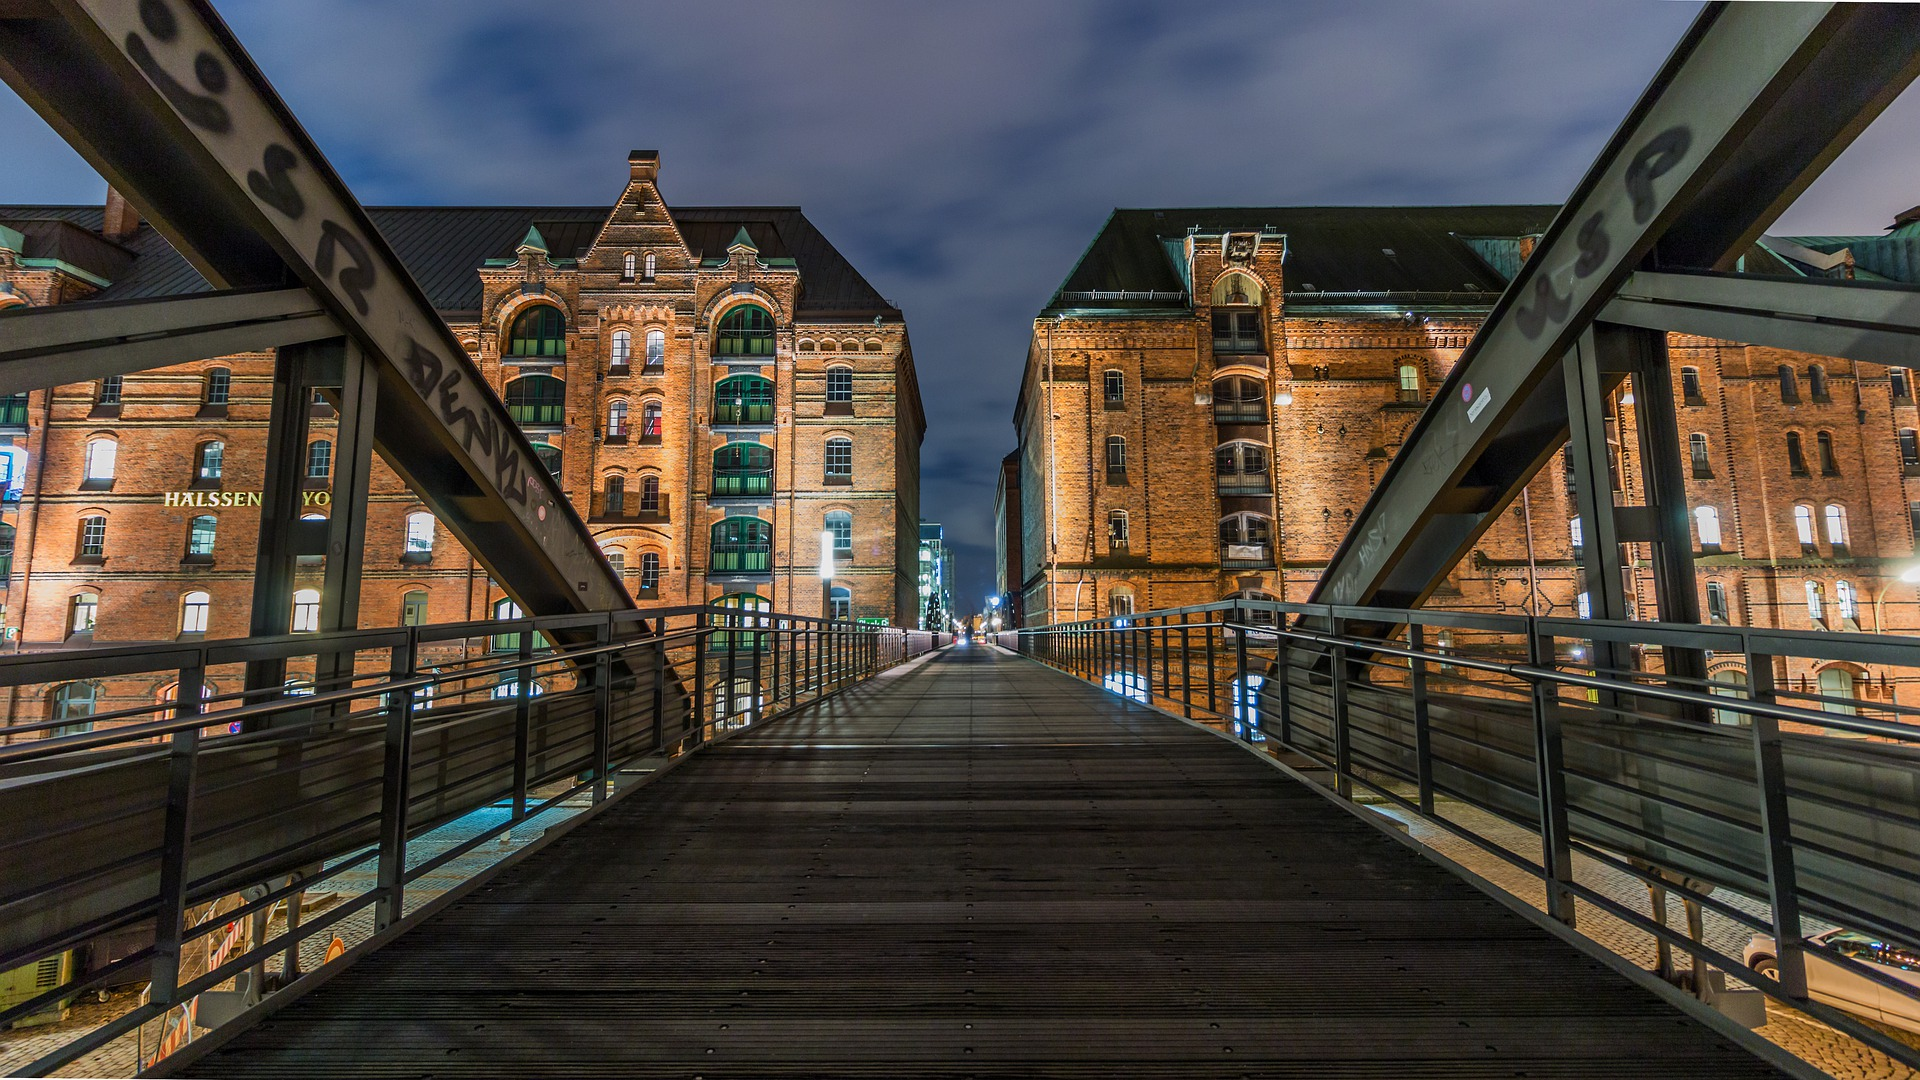
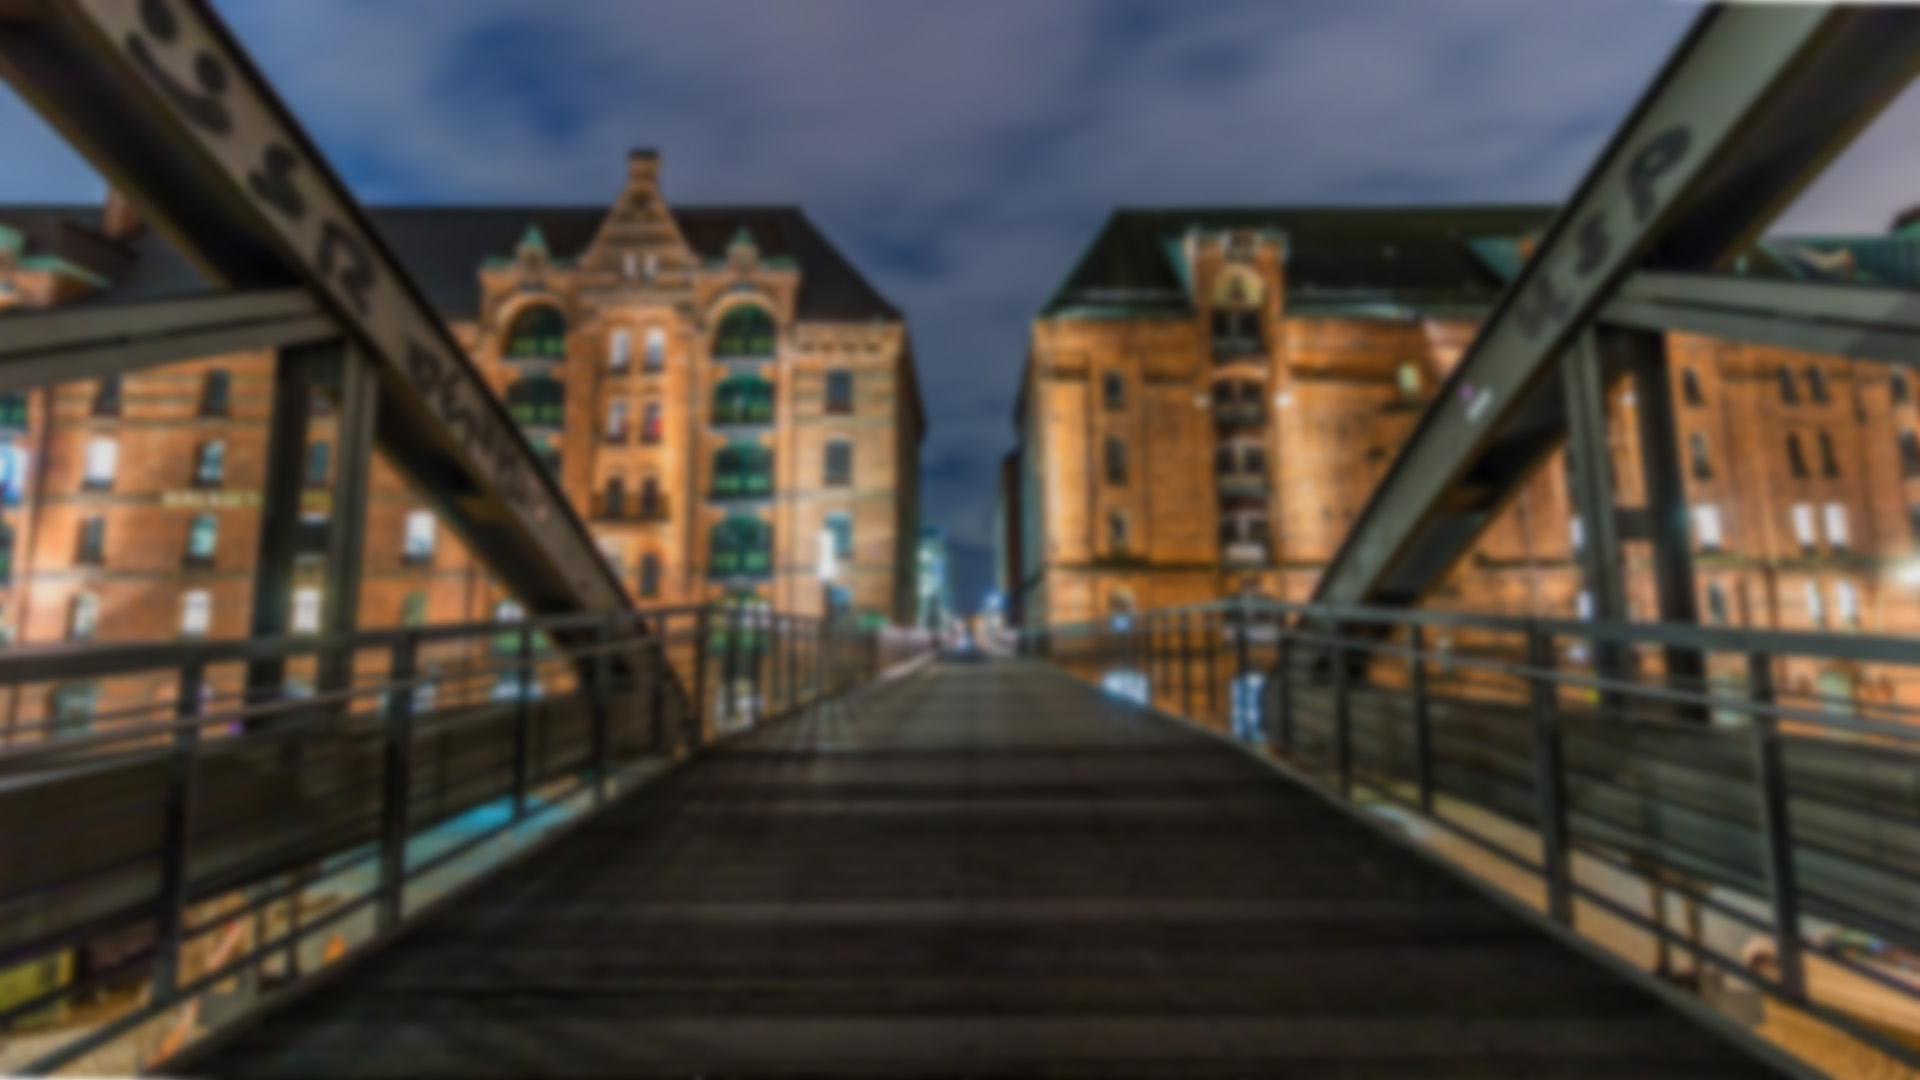
WIP 1

diff --git a/css/main.css b/css/main.css
@@ -1,20 +1,39 @@
 body {
     background-image: url("../img/FrontPage.jpg");
     color: white;
+    /* filter: blur(4.4px); */
 }
 
 #logo {
     position: relative;
     margin-left: 200px;
-    /* color: blue; */
 }
+
+.call-to-action {
+    margin-top: -80px;
+}
+
+.heading {
+    position: relative;
+    text-align: center;
+    text-transform: uppercase; 
+    /* line-height: 1.8px; */
+}
+
+/* .h1>.heading {
+    line-height: 2.8px;
+} */
 
 .navbar-default {
     background-color: transparent;
     border-color: transparent;
-    /* color: white; */
+    margin-bottom: 50px;
 }
 
 .navbar-default .navbar-nav > li > a {
     color: white;
+}
+
+.testimony {
+    background: rgba(42, 160, 177, 0.3);
 }

diff --git a/index.php b/index.php
@@ -12,11 +12,9 @@
 <body>
     <h1 id="logo">Curze <br>Attorneys</h1>
     <div class="container">
-        <!-- <div class="row"> -->
             <div class="col-md-offset-6">
-                <h4>Call now <span class="glyphicon glyphicon-earphone" aria-hidden="true"></span>  084 555 654</h4> 
+                <h4 class="call-to-action">Call now <span class="glyphicon glyphicon-earphone" aria-hidden="true"></span>  084 555 654</h4> 
             </div>
-        <!-- </div> -->
         
         <nav class="navbar navbar-default" role="navigation">
             <!-- Brand and toggle get grouped for better mobile display -->
@@ -42,15 +40,18 @@
             </div><!-- /.navbar-collapse -->
         </nav>
 
-        <h1>Ranked #1</h1>
-        <h1>Construction Law Firm</h1>
-        <h1>In South Africa</h1>
+        <h1 class="heading"><u>Ranked #1</u> <br> Construction Law Firm <br>In South Africa</h1>
 
-        <p>"Lorem ipsum dolor sit amet, consectetur adipiscing elit, sed do eiusmod tempor incididunt ut labore et dolore magna aliqua. Ut enim ad minim veniam, quis nostrud exercitation ullamco laboris nisi ut aliquip ex ea commodo consequat. Duis aute irure dolor in reprehenderit in voluptate velit esse cillum dolore eu fugiat nulla” pariatur. Excepteur sint occaecat cupidatat non proident, sunt in culpa qui officia deserunt mollit anim id est laborum."</p>
+        <div class="testimony">
+            <p>"Lorem ipsum dolor sit amet, consectetur adipiscing elit, sed do eiusmod tempor incididunt ut labore et dolore magna aliqua. Ut enim ad minim veniam, quis nostrud exercitation ullamco laboris nisi ut aliquip ex ea commodo consequat. Duis aute irure dolor in reprehenderit in voluptate velit esse cillum dolore eu fugiat nulla” pariatur. Excepteur sint occaecat cupidatat non proident, sunt in culpa qui officia deserunt mollit anim id est laborum."</p>
         <p>- Happy Client</p>
-
-        <p>"Lorem ipsum dolor sit amet, consectetur adipiscing elit, sed do eiusmod tempor incididunt ut labore et dolore magna aliqua. Ut enim ad minim veniam, quis nostrud exercitation ullamco laboris nisi ut aliquip ex ea commodo consequat. Duis aute irure dolor in reprehenderit in voluptate velit esse cillum dolore eu fugiat nulla” pariatur. Excepteur sint occaecat cupidatat non proident, sunt in culpa qui officia deserunt mollit anim id est laborum."</p>
-        <p>- Another Happy Client</p>
+        </div>
+        
+        <div class="testimony">
+            <p>"Lorem ipsum dolor sit amet, consectetur adipiscing elit, sed do eiusmod tempor incididunt ut labore et dolore magna aliqua. Ut enim ad minim veniam, quis nostrud exercitation ullamco laboris nisi ut aliquip ex ea commodo consequat. Duis aute irure dolor in reprehenderit in voluptate velit esse cillum dolore eu fugiat nulla” pariatur. Excepteur sint occaecat cupidatat non proident, sunt in culpa qui officia deserunt mollit anim id est laborum."</p>
+            <p>- Another Happy Client</p>
+        </div>
+        
     </div>
   
 </body>
